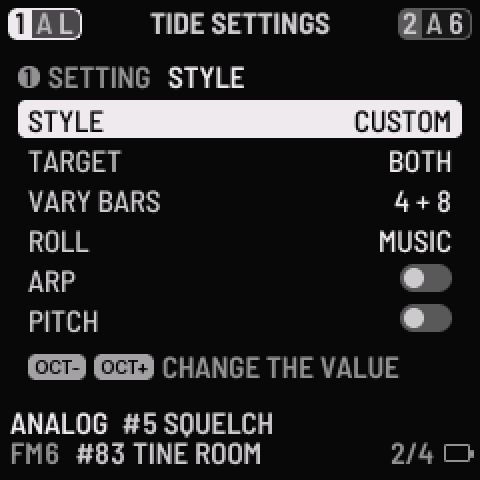
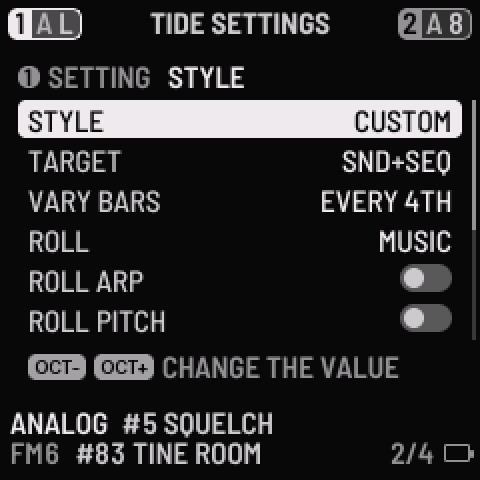
Docs: the TIDE SETTINGS screenshot shows the current names and scroll mark
The README (and the landing page, which copies it) showed TIDE SETTINGS with the old row
names (ARP, PITCH, 4 + 8) and no scroll mark. The picture now comes from a lint scene,
ts_top, rendered by tests/ui_render.c from the current firmware (grey palette, 2x), so it
can be regenerated the same way. The AUTO TIDE and MORPH pictures are unchanged by the
sweep. Audit C15. Tested: ui (the new scene passes the layout lint).

diff --git a/felucca-base/web/landing.html b/felucca-base/web/landing.html
@@ -76,7 +76,7 @@
           <figcaption><b>AUTO TIDE</b>The glide's state on knob 1's line, with both parts. MODE, TIME and WAIT are on knobs 2 to 4.</figcaption>
         </figure>
         <figure class="shot">
-          <img src="img/morph-settings.png" width="240" height="240" alt="The TIDE SETTINGS page: style, target both, vary bars 4 plus 8, roll music, arp, pitch." loading="lazy">
+          <img src="img/morph-settings.png" width="240" height="240" alt="The TIDE SETTINGS page: style, target sound plus seq, vary bars every 4th, roll music, roll arp, roll pitch." loading="lazy">
           <figcaption><b>TIDE SETTINGS</b>What the tide moves and how a new End B is made.</figcaption>
         </figure>
         <figure class="shot">

diff --git a/felucca-base/tests/ui_render.c b/felucca-base/tests/ui_render.c
@@ -2370,7 +2370,7 @@ int main(int argc, char **argv)
     {   /* AUTO TIDE / TIDE SETTINGS in the states the page sweep does not reach (audit 2026-11-04 lane C, C8): BOTH parts, gliding, armed, ARC, WAIT, POLY, 32 steps, the list's last rows,
          * the ARC trip line, the list with inert rows */
         static const char *const NM[] = {"at_single_rest", "at_both_rest", "at_both_glide", "at_both_armed_stopped", "at_both_arc_recover_dropnext",
-                                         "at_both_waiting16", "at_single_glide_32steps", "ts_bottom", "at_both_poly", "at_both_minimal_text", "at_both_arc_trip", "ts_inert", "ts_inert_dim"};
+                                         "at_both_waiting16", "at_single_glide_32steps", "ts_bottom", "at_both_poly", "at_both_minimal_text", "at_both_arc_trip", "ts_inert", "ts_inert_dim", "ts_top"};
         uint32_t pi, sc, k, i;
         for (pi = 0; pi < NPAGES && strcmp(PAGES[pi].title, "AUTO TIDE"); pi++) ;
         for (sc = 0; sc < sizeof NM / sizeof NM[0]; sc++) {
@@ -2395,8 +2395,9 @@ int main(int argc, char **argv)
             if (sc == 5) { gl.hold = 1; gl.wait = 5; gl.prog = (1u << GLIDE_Q) - 1u; }
             if (sc == 8) { poly_len[0] = 12; }
             if (sc == 9) { gl.on = 0; gl.mode = GM_DRIFT; }
-            if (sc == 7 || sc >= 11) { for (pg = 0; pg < NPAGES && strcmp(PAGES[pg].title, "TIDE SETTINGS"); pg++) ; jl_sel = (uint8_t)(sc == 11 ? JL_TURNS : JL_N - 1); }
-            if (sc >= 11) { gl.mode = sc == 11 ? GM_ONCE : GM_JOURNEY; morph_musical = sc == 12; gl.target = GT_SOUND; }
+            if (sc == 7 || sc >= 11) { for (pg = 0; pg < NPAGES && strcmp(PAGES[pg].title, "TIDE SETTINGS"); pg++) ; jl_sel = (uint8_t)(sc == 11 ? JL_TURNS : sc == 13 ? JL_STYLE : JL_N - 1); }
+            if (sc == 13) { tide_style = STY_CUSTOM; gl.target = GT_BOTH; morph_musical = 1; sqm_vary_all = 0; }   /* (the README's TIDE SETTINGS picture: the top of the list) */
+            if (sc == 11 || sc == 12) { gl.mode = sc == 11 ? GM_ONCE : GM_JOURNEY; morph_musical = sc == 12; gl.target = GT_SOUND; }
             ui.page = (uint8_t)pg;
             ui.force = 1;
             cur_name = NM[sc];
@@ -2405,7 +2406,7 @@ int main(int argc, char **argv)
             write_ppm(out, "VIOLET", NM[sc]);
             pal(UI_GREY_INDEX); ui.force = 1; draw(-1); lint(); write_ppm(out, "GREY", NM[sc]);
         }
-        song.playing = 0; gl.on = 0; gl.armed = 0; gl.hold = 0; sqm_arc = 0; tarc.run = 0; tarc.hand = 0; poly_len[0] = 0; jl_sel = 0; morph_musical = 1; sqm_auto = 0;
+        song.playing = 0; gl.on = 0; gl.armed = 0; gl.hold = 0; sqm_arc = 0; tarc.run = 0; tarc.hand = 0; poly_len[0] = 0; jl_sel = 0; morph_musical = 1; sqm_auto = 0; tide_style = STY_DUB;
     }
     if (audf) fprintf(audf, "screen\ttexts\ttext_px\ticons\ticon_px\tkeycaps\tkeycap_px\tellipsised\ttight\twords\ttight_list\n");
     {   /* the lint itself: an overlap, a value too wide for its column, a text past its canvas, one past its cell */

diff --git a/README.md b/README.md
@@ -33,7 +33,7 @@ It is made for playing the FM-1 as a **background**: set a tide going, then play
 
 | AUTO TIDE | TIDE SETTINGS | MORPH, mid-glide |
 |:---:|:---:|:---:|
-| <img src="docs/tide/auto-tide-both-parts.png" width="260" alt="AUTO TIDE page with both parts gliding: WNDR to B, the SOUND and SEQ faders of parts 1 and 2 in two columns, both parts' steps, MODE WNDR, TIME 16 bars, WAIT 2 bars"> | <img src="docs/tide/morph-settings.png" width="260" alt="TIDE SETTINGS page: STYLE, TARGET BOTH, VARY BARS EVERY 4TH, ROLL MUSIC, ARP, PITCH; the rest of the rows scroll below"> | <img src="docs/tide/morph-gliding.png" width="260" alt="MORPH page while a tide plays: the fader at 64, ROLL, UNDO and AMOUNT 40 %"> |
+| <img src="docs/tide/auto-tide-both-parts.png" width="260" alt="AUTO TIDE page with both parts gliding: WNDR to B, the SOUND and SEQ faders of parts 1 and 2 in two columns, both parts' steps, MODE WNDR, TIME 16 bars, WAIT 2 bars"> | <img src="docs/tide/morph-settings.png" width="260" alt="TIDE SETTINGS page: STYLE, TARGET SND+SEQ, VARY BARS EVERY 4TH, ROLL MUSIC, ROLL ARP, ROLL PITCH; the rest of the rows scroll below"> | <img src="docs/tide/morph-gliding.png" width="260" alt="MORPH page while a tide plays: the fader at 64, ROLL, UNDO and AMOUNT 40 %"> |
 | The glide's state on knob 1's line (here *WNDR to B*), with both parts: the SOUND and SEQ faders in two columns, a row per part, each part's steps as they play and the sounds they have travelled to, and MODE / TIME / WAIT on knobs 2 to 4. | STYLE on top, then what the tide moves and how it changes. Knob 1 picks the row, OCT+ / OCT- change it. | DUELL's own MORPH page follows the glide, so you see where the sound is between A and B. |
 
 *Screens rendered from the firmware's own drawing code (GREY palette); try them live in the [web emulator](https://pssdrnk-cmyk.github.io/DUELL-TIDE/emu/).*
